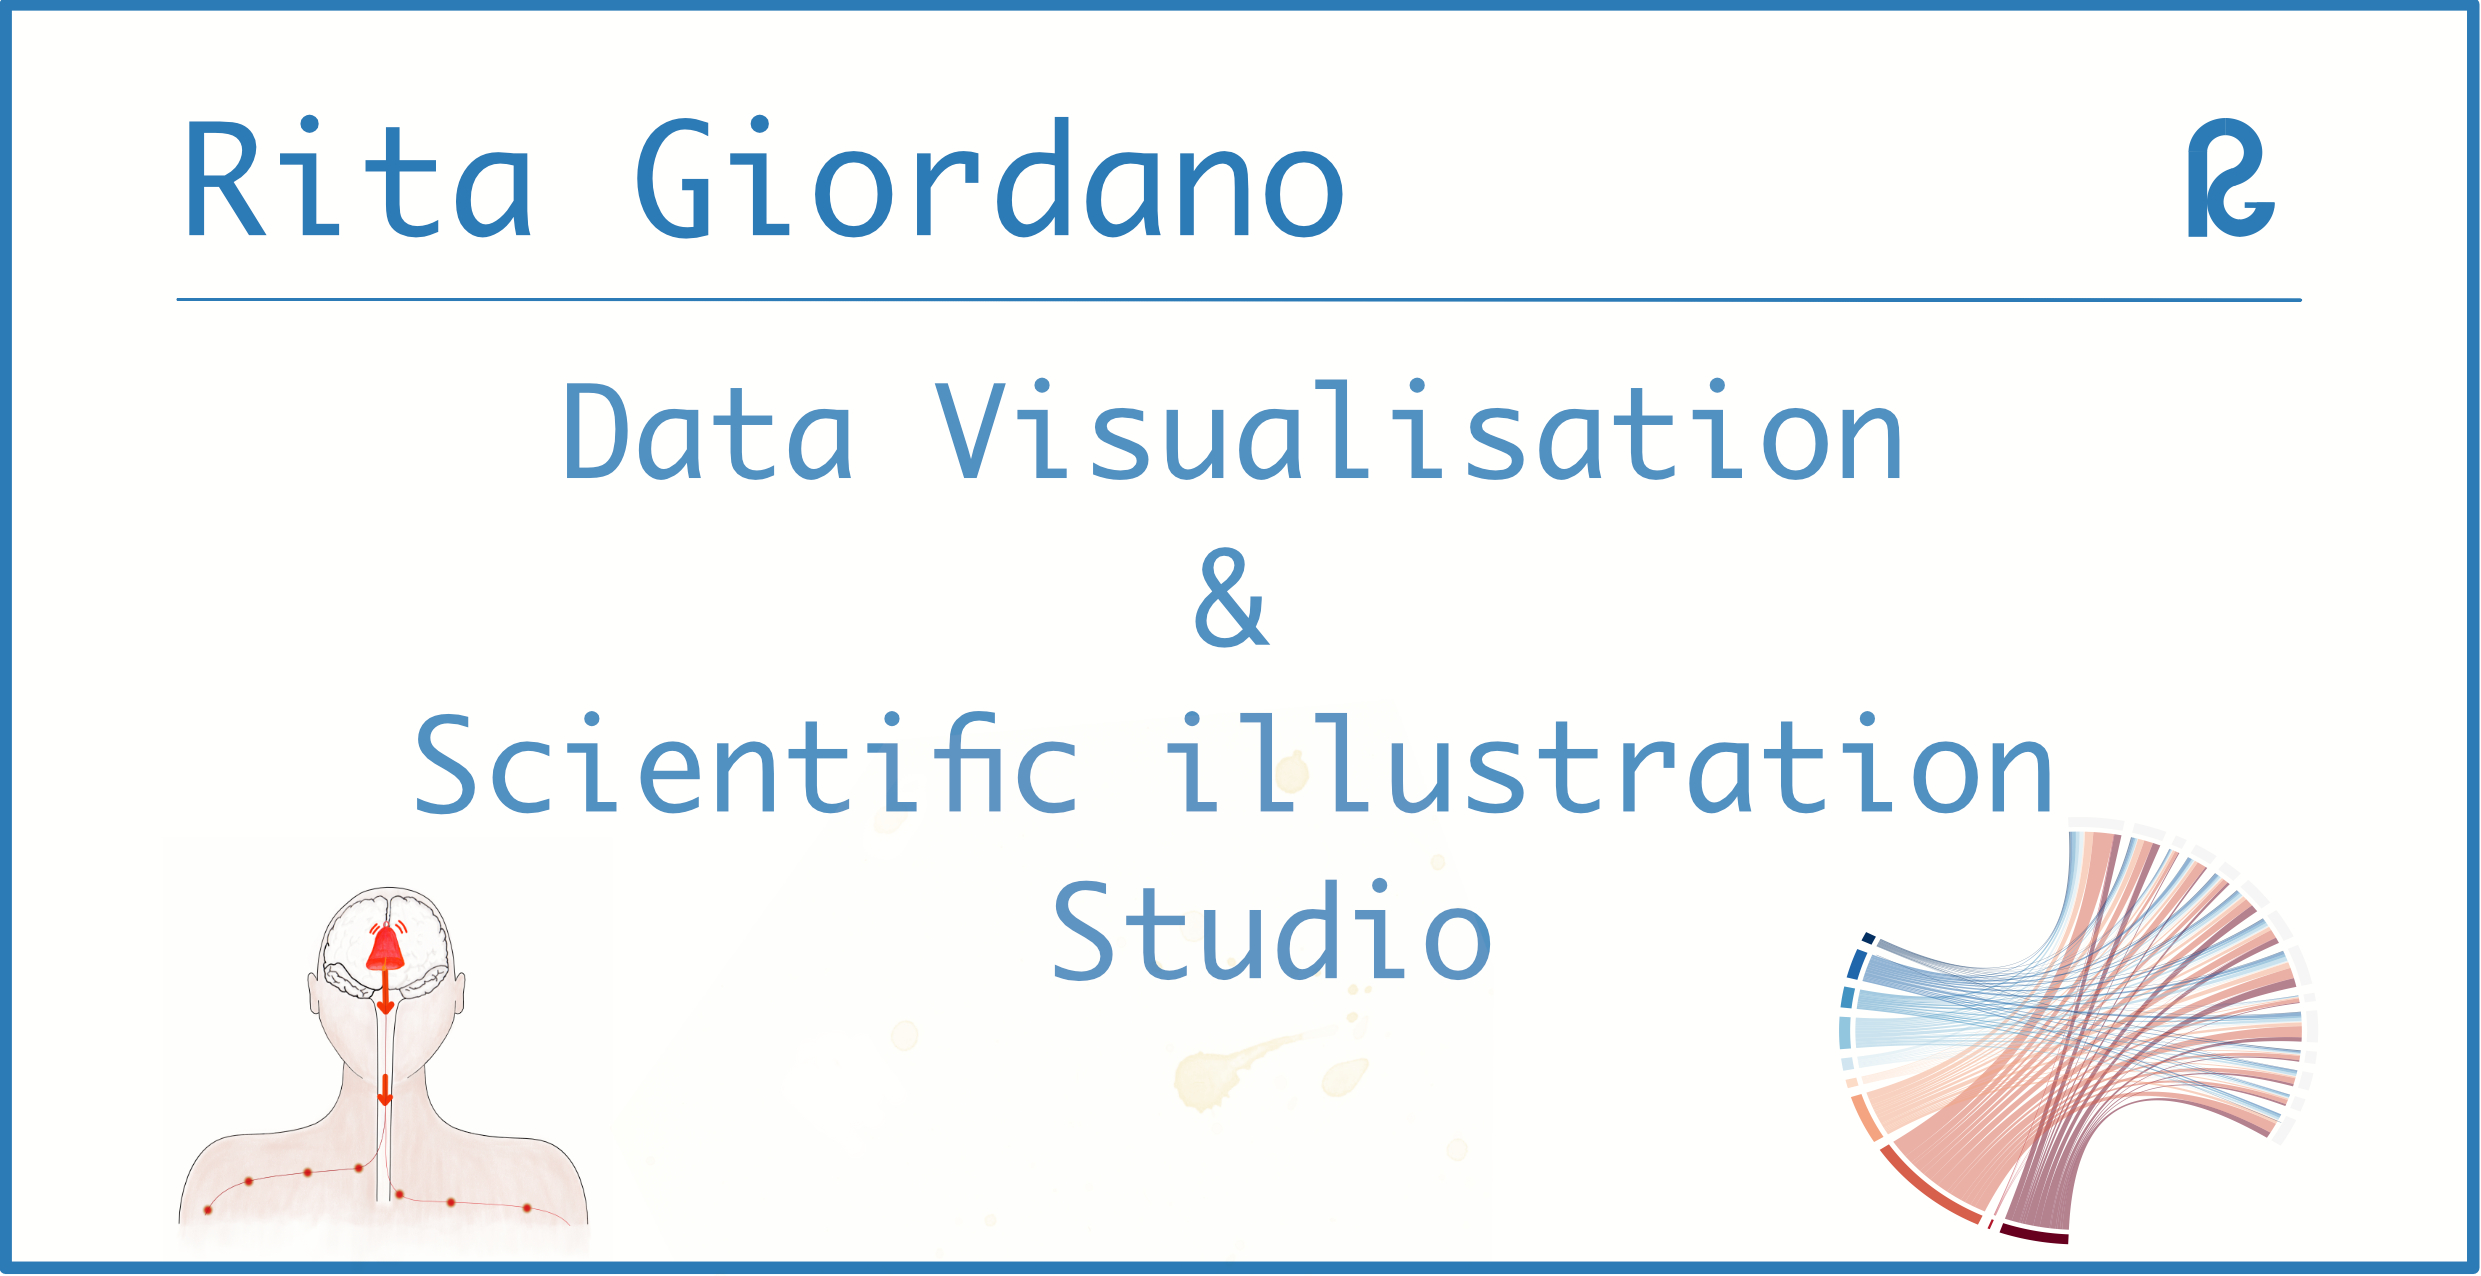
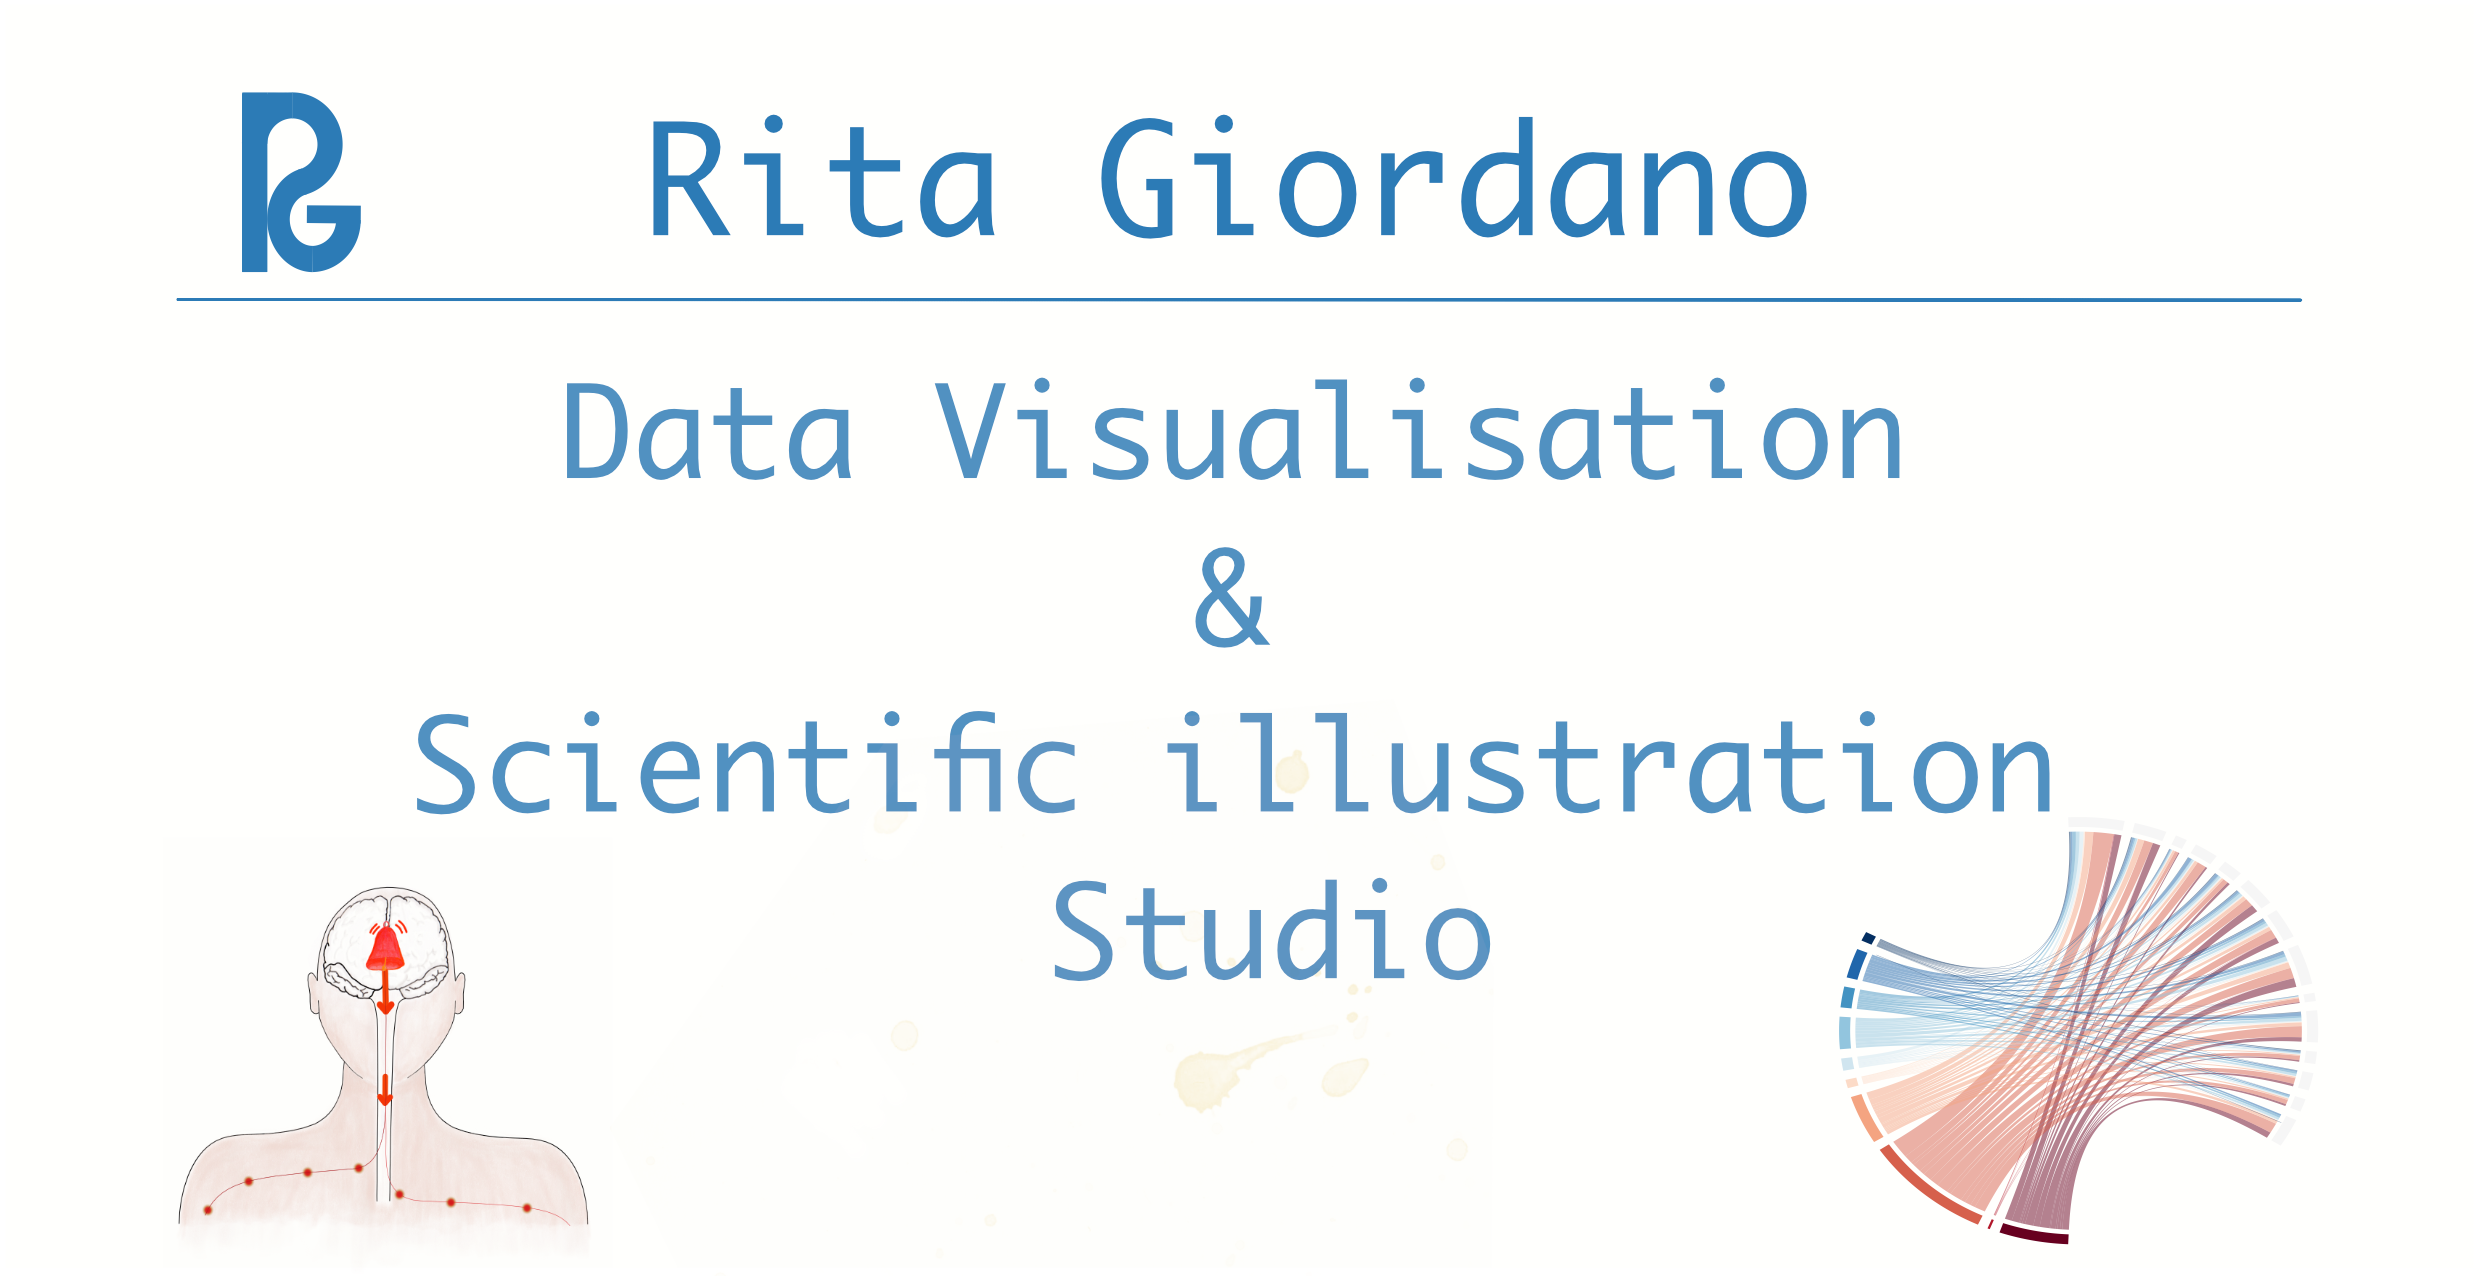
add gif

diff --git a/docs/about.html b/docs/about.html
@@ -769,21 +769,27 @@
           .distill-site-header {
             font-family: 'Lexend', sans-serif;
             color: #000;
-            background-color: #fff;
+            background-color: #2C7BB6;
             font-size: 20px;
             font-weight: 400;
-            /*--title-size:       18px;
+            --title-size:       18px;
             --text-color:       rgba(255, 255, 255, 0.8);
             --text-size:        16px;
             --hover-color:      white;
-            --bkgd-color:       /*#31b7e8*/
+            --bkgd-color:       #2C7BB6;
           }
 
+          .distill-site-nav {
+            color: rgba(255, 255, 255, 0.8);
+            background-color: #2C7BB6;
+            font-size: 15px;
+            font-weight: 300;
+          }
           .distill-site-footer {
-            --text-color:       white;
-            --text-size:        1px;
+            --text-color:       black;
+            --text-size:        15px;
             --hover-color:      white;
-            --bkgd-color:       lightgrey;
+            --bkgd-color:       white/*#2C7BB6*/;
           }
 
           /*-- Additional custom styles --*/
@@ -791,9 +797,10 @@
           d-article{
               margin-top: 0px;
               margin-bottom: 0px;
-              margin-left: 30px;
-              margin-right: 30px;
-              grid-column-gap: 32px;
+              margin-left: 10px;
+              margin-right: 20px;
+              grid-column-gap: 60px;
+              border-top: 0px;
           }
           h1, h2, h3, h4, h5, h6 {
             font-family: 'Lexend', sans-serif;
@@ -978,6 +985,9 @@
           <header class="header header--fixed" role="banner">
           <nav class="distill-site-nav distill-site-header">
           <div class="nav-left">
+          <a class="logo" href="https://ritagiordano.co.uk">
+          <img src="img/logo_iniziali.png" alt="Logo"/>
+          </a>
           <a href="index.html" class="title">Rita Giordano</a>
           <input id="distill-search" class="nav-search hidden" type="text" placeholder="Search..."/>
           </div>
@@ -1010,8 +1020,9 @@
               a master in Physics and a PhD in Crystallography. I worked
               for several years in academia and industry. I have a deep
               understanding of scientific research and how to
-              communicate scientific results.
-              <!-- During these years, as scientist and data scientist, I continuously tried to improve my illustration skills. I did some courses at "Ecole des beaux-arts de Grenoble" and courses at UAL in London. Lastly, I need to improve my skills in scientific illustration and I took a course in natural history illustration with the University of Newcastle. --></p>
+              communicate scientific results.</p>
+              <p><img src="img/homes_animation.gif" /><!-- --></p>
+              <!-- During these years, as scientist and data scientist, I continuously tried to improve my illustration skills. I did some courses at "Ecole des beaux-arts de Grenoble" and courses at UAL in London. Lastly, I need to improve my skills in scientific illustration and I took a course in natural history illustration with the University of Newcastle. -->
             </div>
             <div class="col-11 mt-3 text-center d-block d-sm-none">
               <p>Hi! I’m Rita, a UK-based data visualisation designer
@@ -1020,8 +1031,9 @@
               a master in Physics and a PhD in Crystallography. I worked
               for several years in academia and industry. I have a deep
               understanding of scientific research and how to
-              communicate scientific results.
-              <!-- During these years, as scientist and data scientist, I continuously tried to improve my illustration skills. I did some courses at "Ecole des beaux-arts de Grenoble" and courses at UAL in London. Lastly, I need to improve my skills in scientific illustration and I took a course in natural history illustration with the University of Newcastle. --></p>
+              communicate scientific results.</p>
+              <p><img src="img/homes_animation.gif" /><!-- --></p>
+              <!-- During these years, as scientist and data scientist, I continuously tried to improve my illustration skills. I did some courses at "Ecole des beaux-arts de Grenoble" and courses at UAL in London. Lastly, I need to improve my skills in scientific illustration and I took a course in natural history illustration with the University of Newcastle. -->
             </div>
           </div>
 
@@ -1089,7 +1101,11 @@
           <!--radix_placeholder_site_after_body-->
           <!--/radix_placeholder_site_after_body-->
           <!--radix_placeholder_navigation_after_body-->
+          <div class="distill-site-nav distill-site-footer">
+          <p>© Copyright 2022 Rita Giordano</p>
+          </div>
           <!--/radix_placeholder_navigation_after_body-->
+
     
   </body>
 </html>

diff --git a/docs/contact.html b/docs/contact.html
@@ -2186,21 +2186,27 @@ code span.wa { color: #5e5e5e; font-style: italic; } /* Warning */
   .distill-site-header {
     font-family: 'Lexend', sans-serif;
     color: #000;
-    background-color: #fff;
+    background-color: #2C7BB6;
     font-size: 20px;
     font-weight: 400;
-    /*--title-size:       18px;
+    --title-size:       18px;
     --text-color:       rgba(255, 255, 255, 0.8);
     --text-size:        16px;
     --hover-color:      white;
-    --bkgd-color:       /*#31b7e8*/
+    --bkgd-color:       #2C7BB6;
   }
 
+  .distill-site-nav {
+    color: rgba(255, 255, 255, 0.8);
+    background-color: #2C7BB6;
+    font-size: 15px;
+    font-weight: 300;
+  }
   .distill-site-footer {
-    --text-color:       white;
-    --text-size:        1px;
+    --text-color:       black;
+    --text-size:        15px;
     --hover-color:      white;
-    --bkgd-color:       lightgrey;
+    --bkgd-color:       white/*#2C7BB6*/;
   }
 
   /*-- Additional custom styles --*/
@@ -2208,9 +2214,10 @@ code span.wa { color: #5e5e5e; font-style: italic; } /* Warning */
   d-article{
       margin-top: 0px;
       margin-bottom: 0px;
-      margin-left: 30px;
-      margin-right: 30px;
-      grid-column-gap: 32px;
+      margin-left: 10px;
+      margin-right: 20px;
+      grid-column-gap: 60px;
+      border-top: 0px;
   }
   h1, h2, h3, h4, h5, h6 {
     font-family: 'Lexend', sans-serif;
@@ -2433,6 +2440,9 @@ code span.wa { color: #5e5e5e; font-style: italic; } /* Warning */
 <header class="header header--fixed" role="banner">
 <nav class="distill-site-nav distill-site-header">
 <div class="nav-left">
+<a class="logo" href="https://ritagiordano.co.uk">
+<img src="img/logo_iniziali.png" alt="Logo"/>
+</a>
 <a href="index.html" class="title">Rita Giordano</a>
 <input id="distill-search" class="nav-search hidden" type="text" placeholder="Search..."/>
 </div>
@@ -2594,7 +2604,11 @@ class="sourceCode r distill-force-highlighting-css"><code class="sourceCode r"><
 <div class="appendix-bottom"></div>
 <!--/radix_placeholder_appendices-->
 <!--radix_placeholder_navigation_after_body-->
+<div class="distill-site-nav distill-site-footer">
+<p>© Copyright 2022 Rita Giordano</p>
+</div>
 <!--/radix_placeholder_navigation_after_body-->
+
 
 </body>
 

diff --git a/docs/index.html b/docs/index.html
@@ -2586,8 +2586,8 @@ img[src="img/banner.png"] {
 <!-- ``` -->
 <!-- <div class="parallax l-screen"> -->
 <p><span class="title"> We provide data visualisation consultancy,
-workshop for scientist and company on how to create data visualisation
-with R and scientific illustrations.</span> <!-- </div> --></p>
+workshop how to create data visualisation with R and scientific
+illustrations.</span> <!-- </div> --></p>
 <!-- <span class="title">Do you have data to visualise?<br> I will find the best way to visualise them.<br><br> -->
 <!--    Do you need a graphical abstract or a scientific illustration?<br> I will create the illustration that best fit your needs. -->
 <!--    </span> -->
